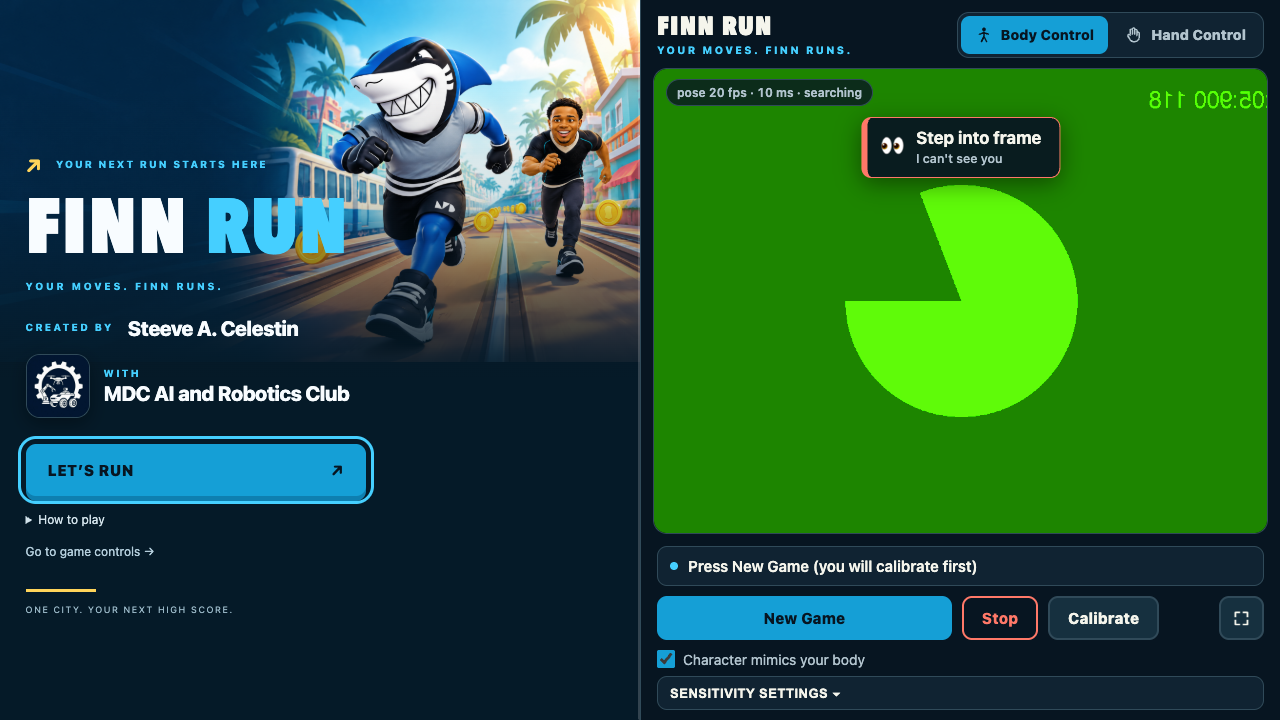
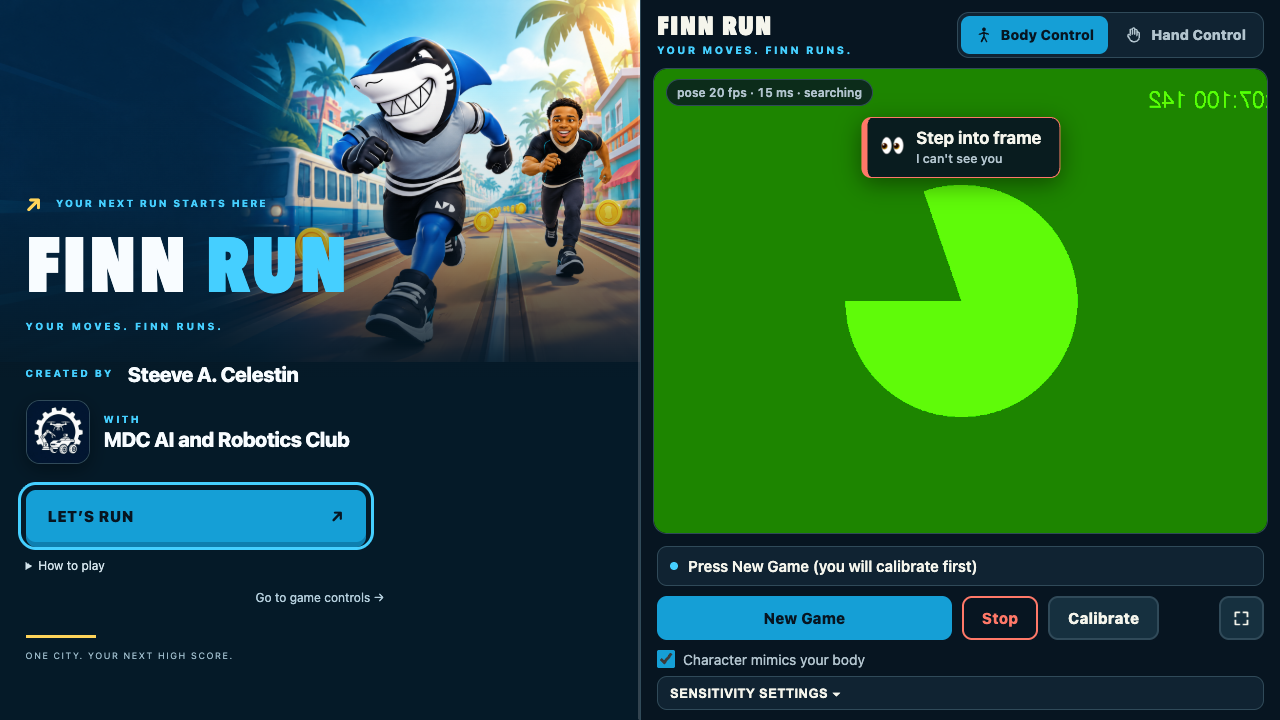
Intro: centre the text column vertically in the pane (stacked and wide layouts)
The pane is 731 CSS px wide on the booth laptop even in fullscreen, so the
intro always stacks the art above the text; the taller fullscreen pane left
the column high with empty space below. The content is now a flex column
with safe vertical centring under the art headroom (left-aligned items,
LET'S RUN keeps its 340 px width). Captures at 1462x915 / 1440x900 /
1920x1080 / 1280x720: button bottom 656 / 646 / 684 / 542 px, no scrolling.
e2e 111/111 with the trial flags.

Claude-Session: https://claude.ai/code/session_01M6fxJqxPYmFzdfwVAfyanA

diff --git a/subway-surfers-threejs/src/assets/intro-overrides.css b/subway-surfers-threejs/src/assets/intro-overrides.css
@@ -10,12 +10,23 @@ html[data-intro="on"] .score_container { visibility: hidden; }
 .experience .frp-intro { z-index: 5; }
 
 /* Booth size: the title and LET'S RUN must be visible without scrolling at
-   a 720×900 pane (1440×900) and at 640×720 — tighten the art headroom. */
-.experience .frp-content { padding-top: min(24cqw, 176px); }
+   a 720×900 pane (1440×900) and at 640×720 — tighten the art headroom, and
+   centre the text column vertically in the space under the art (stacked
+   layout) or beside it (wide layout). 'safe center' keeps the top reachable
+   by scrolling when the column is taller than the pane. */
+.experience .frp-content {
+    display: flex; flex-direction: column; justify-content: safe center; align-items: flex-start;
+    min-height: 100%; box-sizing: border-box;
+    padding-top: min(24cqw, 176px); padding-bottom: clamp(18px, 3cqw, 32px);
+}
 .experience .frp-how { margin-top: 14px; }
+@container (min-width: 900px) {
+    .experience .frp-content { padding-top: clamp(40px, 5cqw, 90px); }
+}
 
 /* Phase 4 identity when that UI is on: same display face and tokens. */
 html[data-ui="phase4"] .frp-intro { font-family: var(--p4-body); background: var(--p4-bg); }
+.experience .frp-start { width: min(100%, 340px); align-self: stretch; max-width: 340px; }
 html[data-ui="phase4"] .frp-title { font-family: var(--p4-display); letter-spacing: .02em; font-weight: 800; }
 html[data-ui="phase4"] .frp-title span,
 html[data-ui="phase4"] .frp-tagline,
